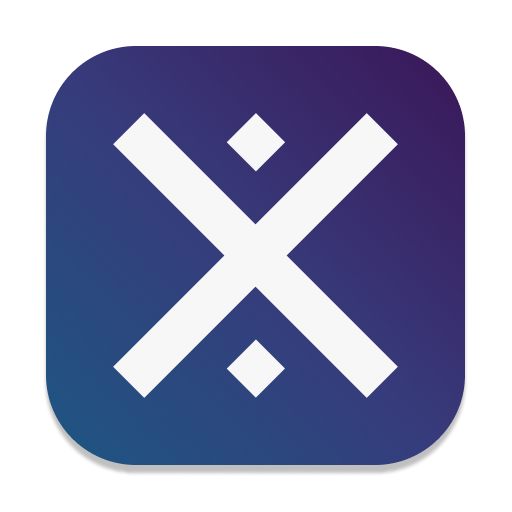
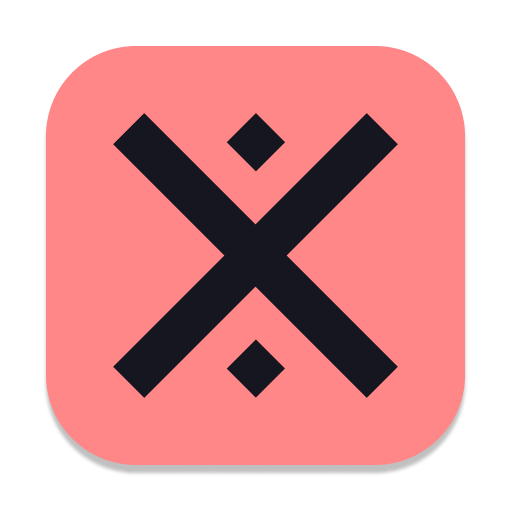
Improve theme

diff --git a/styles/global.tsx b/styles/global.tsx
@@ -1,25 +1,25 @@
 import { FC } from 'react';
 import { Global } from '@emotion/react';
 
-const light = '#f7f7f7';
-const lightAccent = '#eeeeee';
+const light = '#eae7f3';
+const lightAccent = '#e2deeb';
 const lightDarker = '#ccc8d8';
 const dark = '#161620';
 const darkAccent = '#1b1b25';
 const darker = '#111116';
-const primary = '#005e87';
-const secondary = '#a587ff';
-const grayLight = '#7d7891';
-const grayDark = '#72707e';
-const grayAccentLight = '#c1becb';
-const grayAccentDark = '#312e49';
+const primary = '#007896';
+const secondary = '#ff8787';
+const grayLight = '#9590a6';
+const grayDark = '#7d7c86';
+const grayAccentLight = '#cfcdd6';
+const grayAccentDark = '#3c3b48';
 const buttonDisabled = '#b7b4bb';
 const warningLight = '#e64358';
 const warningDark = '#de5063';
-const codeHighlight = '#272735';
+const codeHighlight = '#242430';
 const avatar = '#412485';
 const gradientLight =
-  'linear-gradient(to bottom,#205382 0%, #373b7b 50%,#3a1b5c 100%)';
+  'linear-gradient(to bottom, #321D4A 0%, #311A36 50%,#482335 100%)';
 const gradientDark =
   'linear-gradient(to bottom,#3a1b5c 0%, #373b7b 50%,#205382 100%)';
 type GlobalStylesProps = {
@@ -431,7 +431,6 @@ const GlobalStyles: FC<GlobalStylesProps> = ({
           },
           '.animationWrapper': {
             width: '100%',
-            overflow: 'hidden',
             alignSelf: 'flex-end',
           },
           '.buttonHover': {

diff --git a/data/content.ts b/data/content.ts
@@ -107,8 +107,8 @@ export const aboutContent = {
     ],
   },
   bio: {
-    subheading: `Hey there, I'm Amir! 👋`,
-    content: `I'm a developer and designer who's passionate about crafting outstanding digital experiences. This blog is a platform to document my career journey, learn in public, and share my knowledge with the web development comminity. I'm glad you're here!`,
+    subheading: `Hey there, I'm Amir 👋👨💻`,
+    content: `I'm a developer and designer who's passionate about crafting outstanding digital experiences. This blog is a platform to document my career journey, learn in public, and share my knowledge with the web development comminity.`,
     items: [
       {
         path: '/resume',

diff --git a/components/Timeline.tsx b/components/Timeline.tsx
@@ -174,10 +174,10 @@ const Timeline: FC<TimelineProps> = ({ timeline }) => {
         },
       },
       '.date': {
-        fontFamily: 'var(--font-secondary)',
-        color: 'var(--color-primary)',
+        fontFamily: 'var(--font-primary)',
+        color: 'var(--color-text)',
         fontSize: 25,
-        fontWeight: 900,
+        fontWeight: 400,
         lineHeight: '.5rem',
         '@media(max-width: 768px)': {
           paddingTop: '.2rem',

diff --git a/styles/theme.tsx b/styles/theme.tsx
@@ -2,12 +2,12 @@ export const themeLight = {
   active: 'light',
   favicon: '/favicon-light.png',
   gh: 'dark',
-  canvas: '#978fac',
+  canvas: '#68c1d8',
 };
 
 export const themeDark = {
   active: 'dark',
   favicon: '/favicon-dark.png',
   gh: 'light',
-  canvas: '#978fac',
+  canvas: '#ffa4a4',
 };

diff --git a/components/Markdown.tsx b/components/Markdown.tsx
@@ -66,7 +66,7 @@ const BlogMarkdown: FC<BlogMarkdownProps> = ({ markdown }) => {
         position: 'absolute',
         bottom: 10,
         right: -10,
-        color: 'var(--color-disabled)',
+        color: 'var(--color-gray)',
         textAlign: 'right',
         fontSize: 12,
       },
